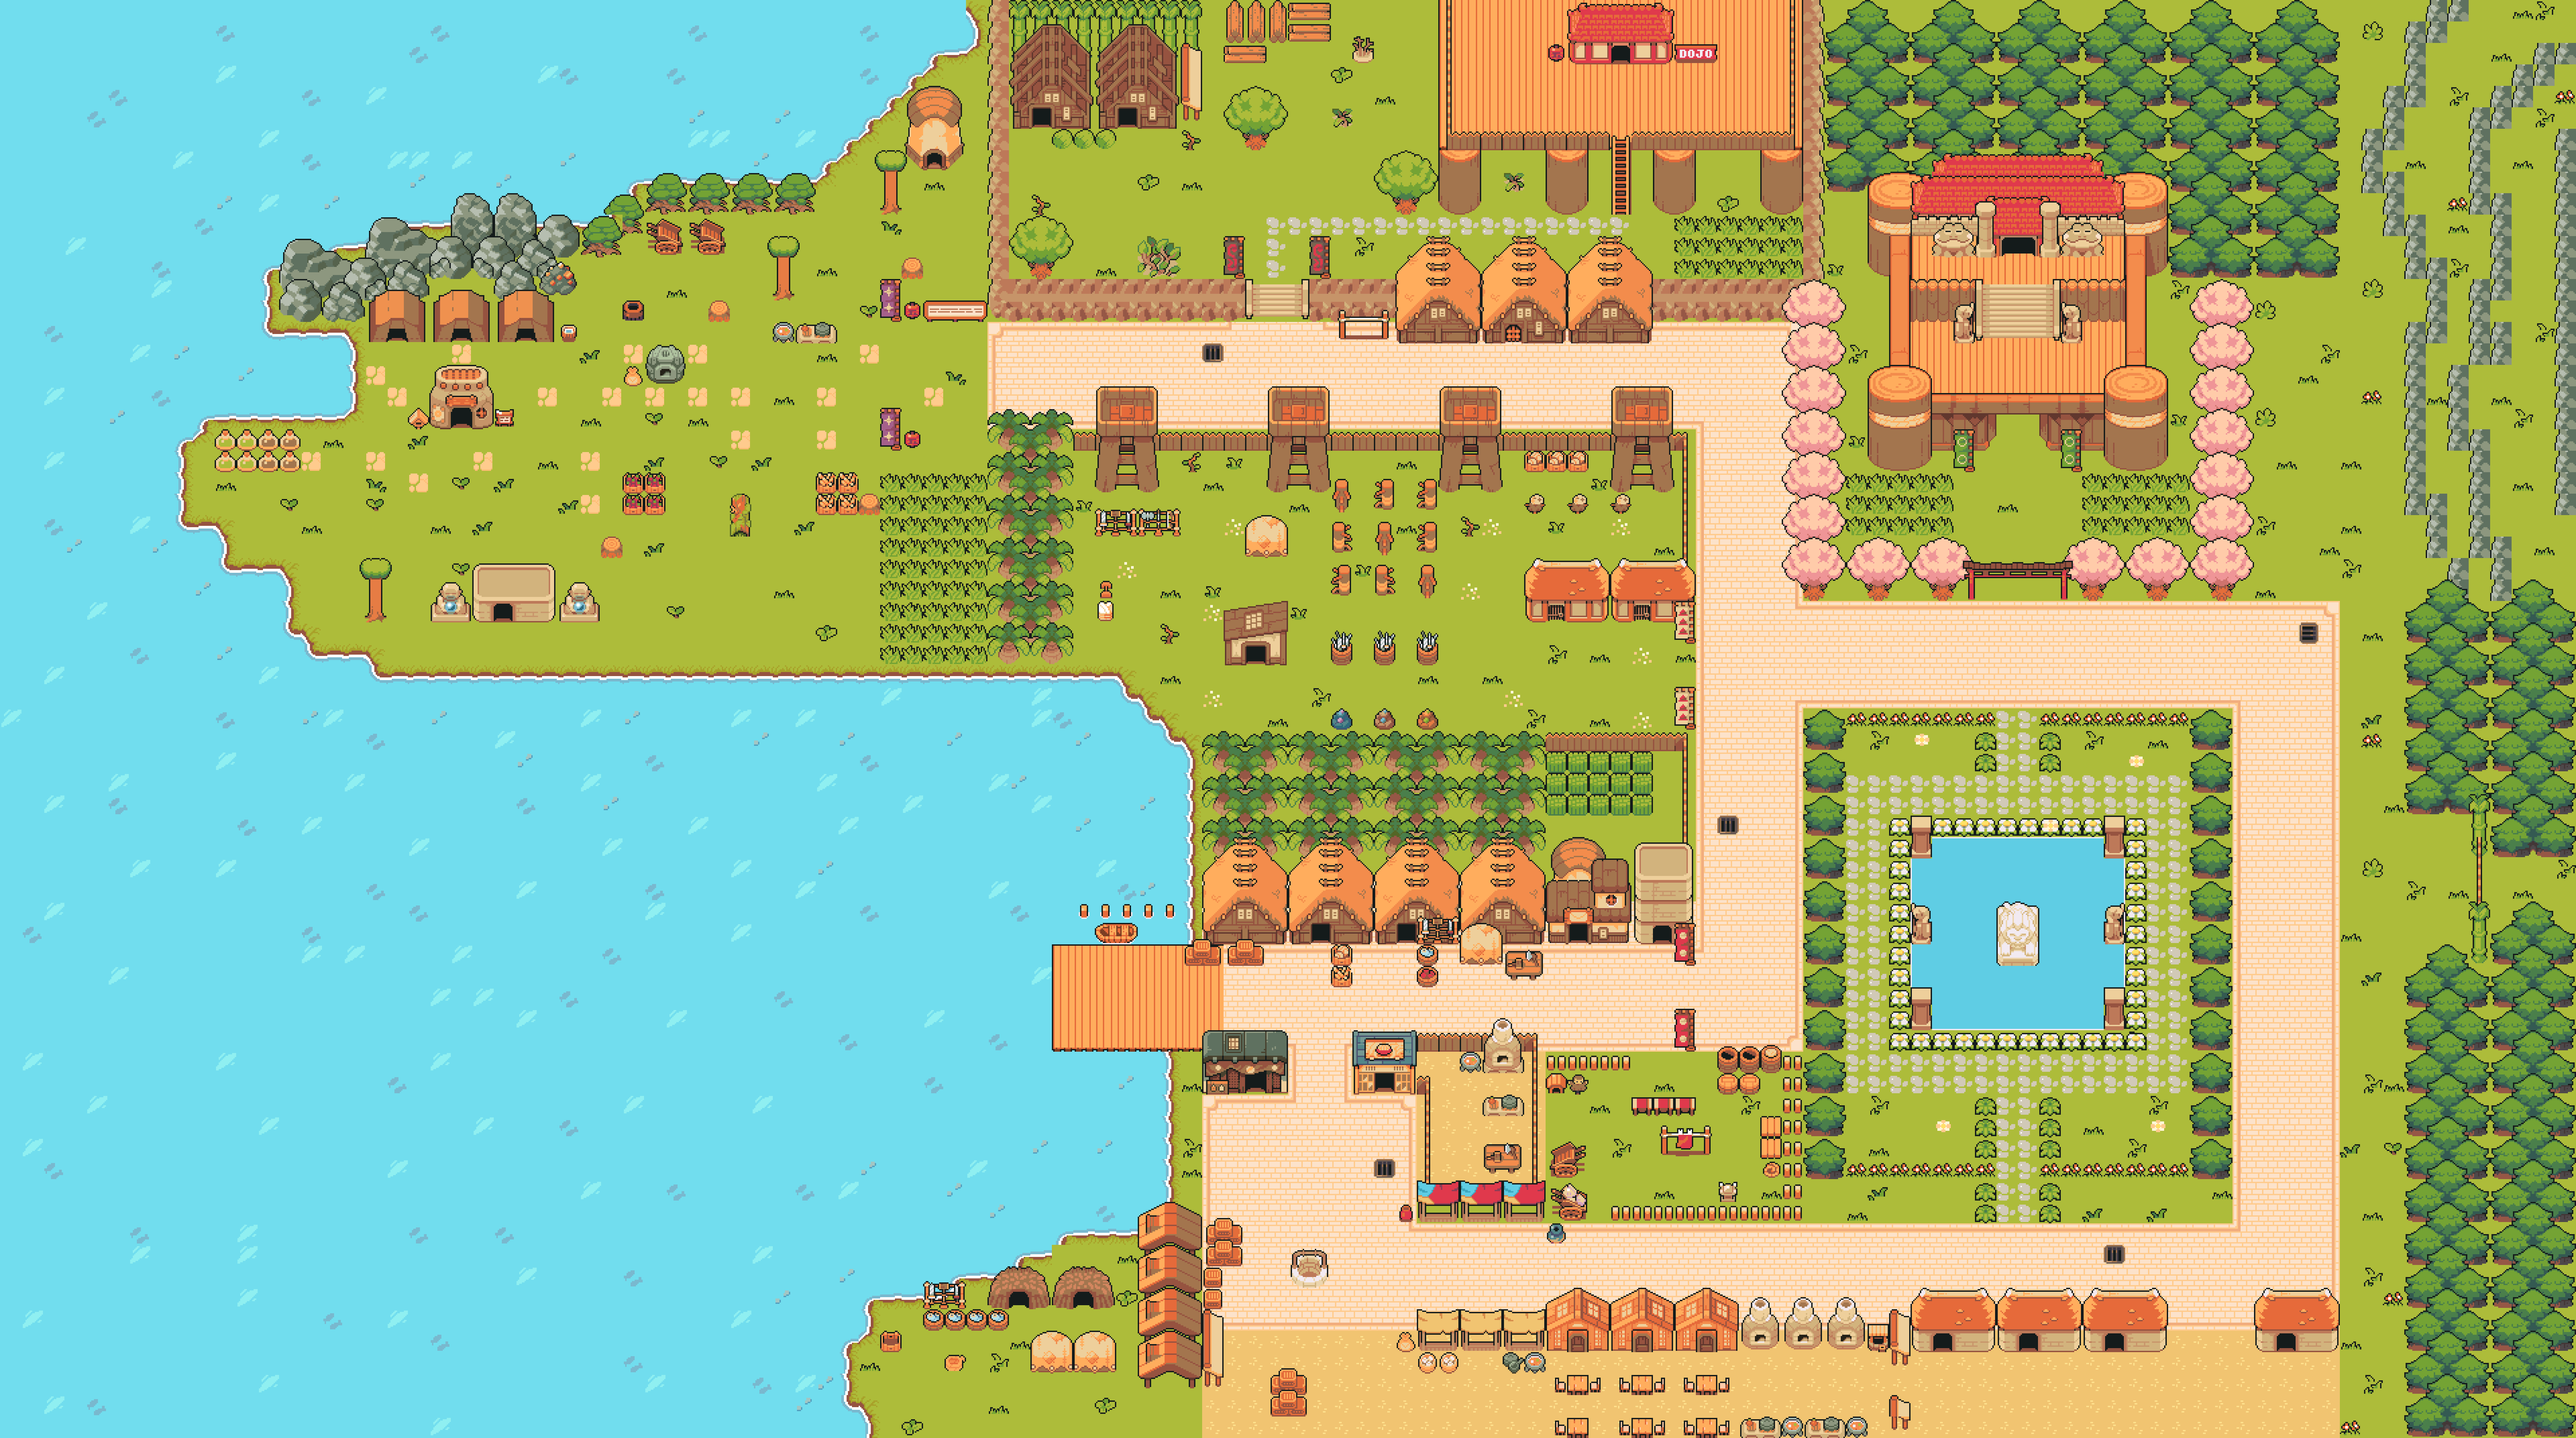
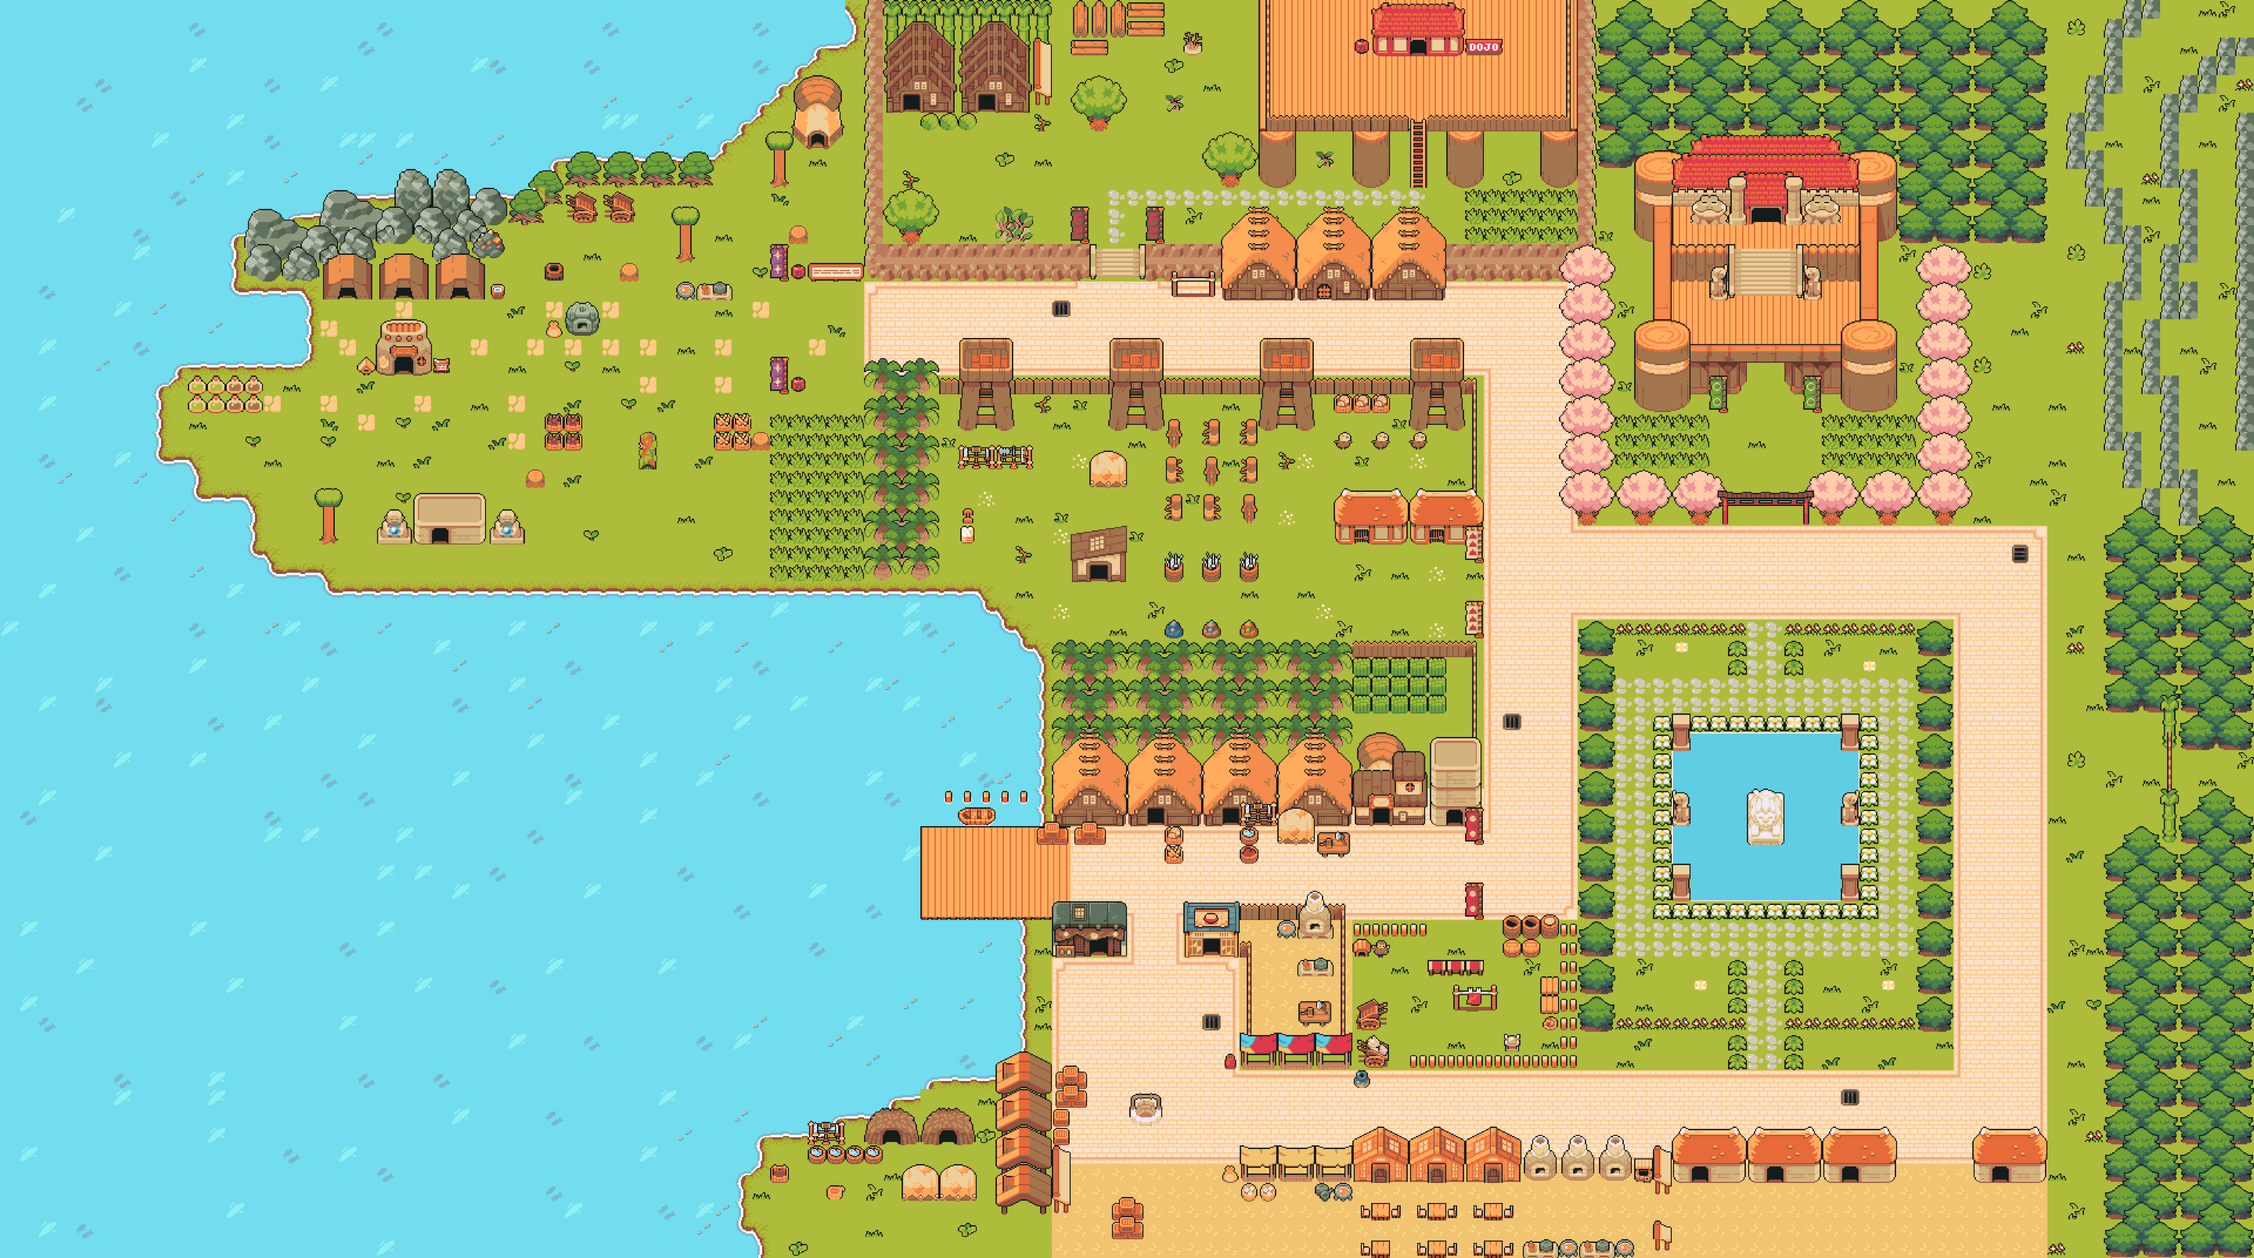
scaled game

diff --git a/main/index.html b/main/index.html
@@ -4,6 +4,24 @@
     <meta charset="UTF-8">
     <meta name="viewport" content="width=device-width, initial-scale=1.0">
     <title>Little Adventure</title>
+    <style>
+        body {
+            margin: 0;
+            overflow: hidden;
+            display: flex;
+            justify-content: center;
+            align-items: center;
+            height: 100vh;
+            background-color: #000;
+        }
+
+        canvas {
+            width: 100%; 
+            height: 100%; 
+            display: block;
+            object-fit: contain;
+        }
+    </style>
 </head>
 <body>
     <canvas></canvas>

diff --git a/main/logic/map/LoadConfig.js b/main/logic/map/LoadConfig.js
@@ -38,7 +38,7 @@ export async function initializeGameAssets(canvas, c) {
         const player = new Player(
             playerConfig.startX,  
             playerConfig.startY,  
-            75, 75, c,  
+            60, 60, c,  
             map.canvasWidth, map.canvasHeight,
             loadedAnimations, mapCollision, camera
         );

diff --git a/main/logic/strategy/player/OverworldStrategy.js b/main/logic/strategy/player/OverworldStrategy.js
@@ -136,7 +136,6 @@ class OverworldStrategy extends MovementStrategy {
         }
 
         if (this.checkCollision(player, newX, newY)) {
-            console.log("Collision detected at", { x: newX, y: newY });
             return [player.x, player.y]; 
         }
         return [newX, newY]; 

diff --git a/main/index.js b/main/index.js
@@ -50,6 +50,7 @@ async function initializeGame() {
 function animate() {
     c.clearRect(0, 0, canvas.width, canvas.height);
     c.drawImage(mainMap, mapPositionX, mapPositionY);
+   
 
     camera.draw(c);
     mapPositionX = camera.x;
